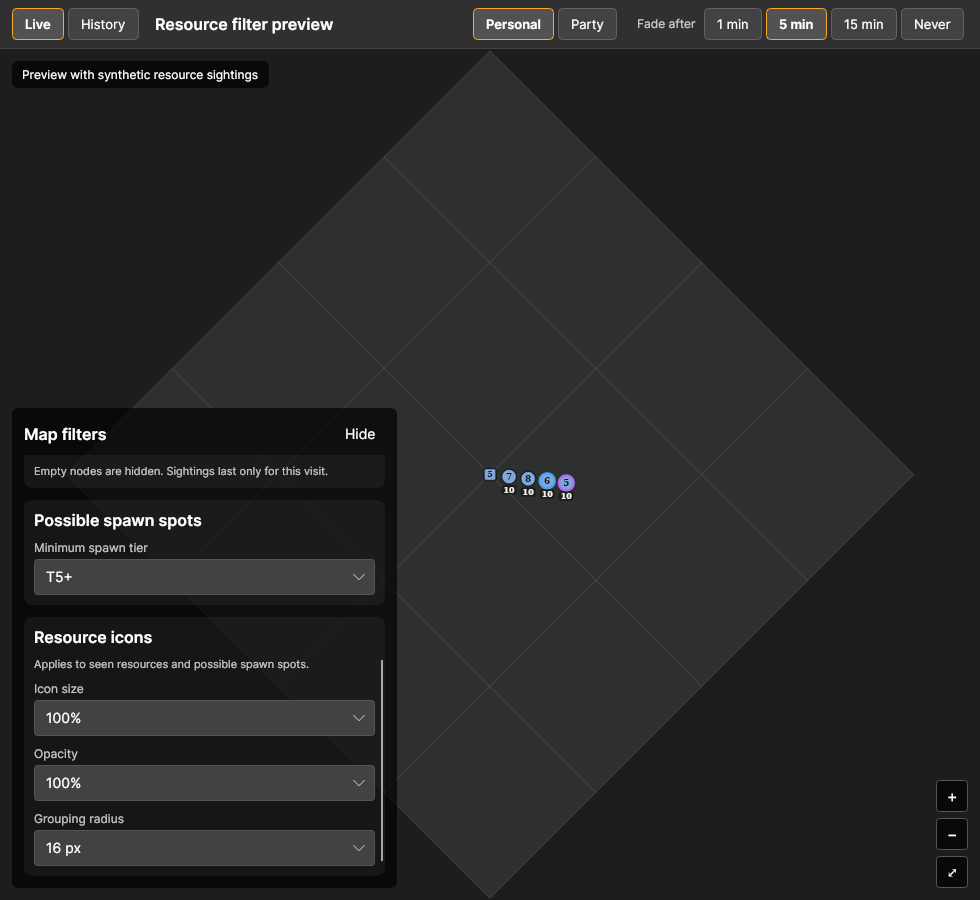
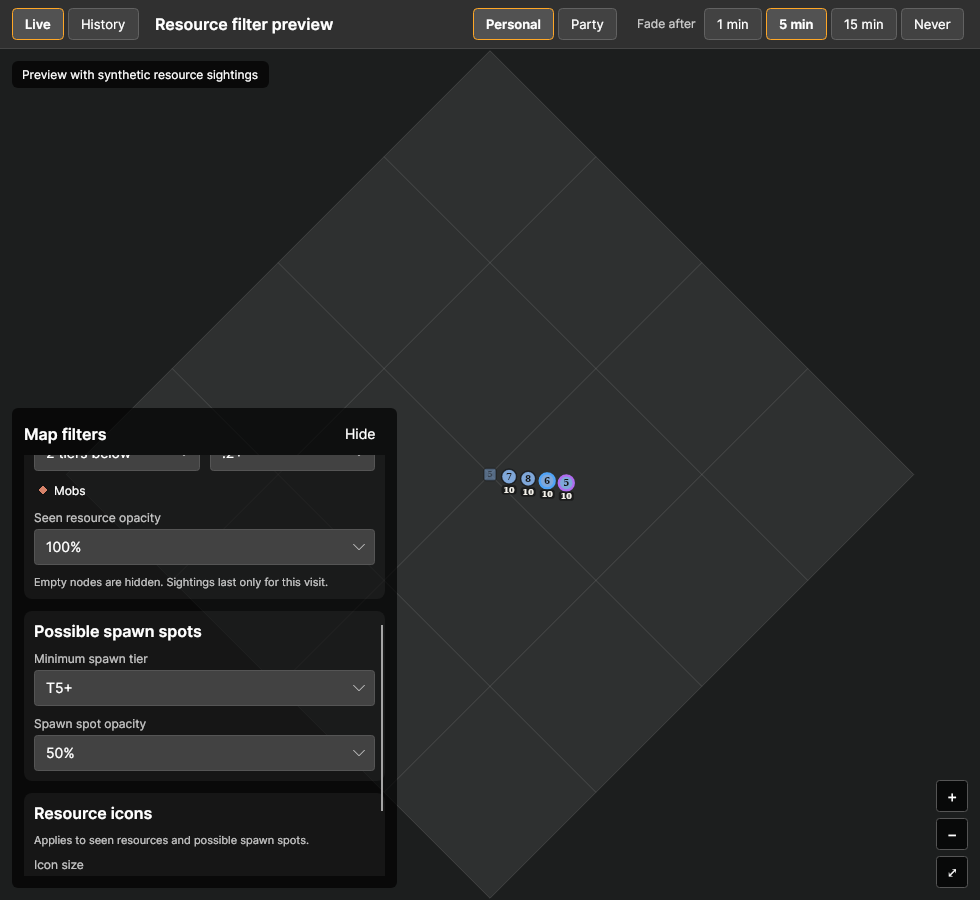
Separate spawn spot opacity from seen resources

Changed region(s): [[0.0306, 0.4978, 0.398, 0.9644]]

diff --git a/AlbionDataAvalonia/ViewModels/ActivityMapViewModel.cs b/AlbionDataAvalonia/ViewModels/ActivityMapViewModel.cs
@@ -83,6 +83,7 @@ public sealed partial class ActivityMapViewModel : ObservableObject, IDisposable
         selectedLowerTierEnchantment = UiOptions.Nearest(EnchantmentOptions, settings.MapResourceLowerTierMinEnchantment);
         selectedIconSize = UiOptions.Nearest(IconSizeOptions, settings.MapResourceIconSize);
         selectedIconOpacity = UiOptions.Nearest(IconOpacityOptions, settings.MapResourceIconOpacity);
+        selectedSpawnIconOpacity = UiOptions.Nearest(IconOpacityOptions, settings.MapResourceSpawnIconOpacity);
         selectedClusterRadius = UiOptions.Nearest(ClusterRadiusOptions, settings.MapResourceClusterRadius);
         liveTimer.Tick += (_, _) => RefreshLive();
         replayTimer.Tick += (_, _) => AdvanceReplay();
@@ -144,6 +145,7 @@ public sealed partial class ActivityMapViewModel : ObservableObject, IDisposable
     [ObservableProperty] private Option<int> selectedLowerTierEnchantment;
     [ObservableProperty] private Option<int> selectedIconSize;
     [ObservableProperty] private Option<int> selectedIconOpacity;
+    [ObservableProperty] private Option<int> selectedSpawnIconOpacity;
     [ObservableProperty] private Option<int> selectedClusterRadius;
     [ObservableProperty] private Option<int> selectedResourceTier;
     [ObservableProperty] private bool showResourceMobs;
@@ -349,6 +351,12 @@ public sealed partial class ActivityMapViewModel : ObservableObject, IDisposable
         Rebuild();
     }
 
+    partial void OnSelectedSpawnIconOpacityChanged(Option<int> value)
+    {
+        settings.MapResourceSpawnIconOpacity = value.Value;
+        Rebuild();
+    }
+
     partial void OnSelectedClusterRadiusChanged(Option<int> value)
     {
         settings.MapResourceClusterRadius = value.Value;
@@ -480,7 +488,8 @@ public sealed partial class ActivityMapViewModel : ObservableObject, IDisposable
             ShownResourceSpawns(Turned(zone?.ResourceSpawns ?? [], turns)), ShownPois(Turned(zone?.Pois ?? [], turns)),
             zone?.Zone?.Rooms, zone?.Zone?.Outline, ShowRoamingBosses ? (live.RoamingBosses ?? []).OrderBy(x => x.Kind == ActivityLiveActorKind.Boss).ThenBy(x => x.Tier).ToArray() : [],
             ShownHostiles(live.Hostiles, zone?.Zone), ResourceIconScale: SelectedIconSize.Value / 100d,
-            ResourceIconOpacity: SelectedIconOpacity.Value / 100d, ResourceClusterRadius: SelectedClusterRadius.Value);
+            ResourceIconOpacity: SelectedIconOpacity.Value / 100d, ResourceClusterRadius: SelectedClusterRadius.Value,
+            ResourceSpawnIconOpacity: SelectedSpawnIconOpacity.Value / 100d);
     }
 
     // No one can attack the character in a blue zone, so a player there is no threat.
@@ -639,7 +648,8 @@ public sealed partial class ActivityMapViewModel : ObservableObject, IDisposable
             markers, Turned(zone?.Exits ?? [], turns), Turned(zone?.Icons ?? [], turns), null, null, false, DateTime.UtcNow, 0, option.StartUtc, until,
             Layers, turns, ResourceSpawns: ShownResourceSpawns(Turned(zone?.ResourceSpawns ?? [], turns)),
             Pois: ShownPois(Turned(zone?.Pois ?? [], turns)), Rooms: zone?.Zone?.Rooms, Outline: zone?.Zone?.Outline, ResourceIconScale: SelectedIconSize.Value / 100d,
-            ResourceIconOpacity: SelectedIconOpacity.Value / 100d, ResourceClusterRadius: SelectedClusterRadius.Value);
+            ResourceIconOpacity: SelectedIconOpacity.Value / 100d, ResourceClusterRadius: SelectedClusterRadius.Value,
+            ResourceSpawnIconOpacity: SelectedSpawnIconOpacity.Value / 100d);
     }
 
     // Only a minimap found by its layout follows the instance's turn.

diff --git a/AlbionDataAvalonia/Settings/UserSettings.cs b/AlbionDataAvalonia/Settings/UserSettings.cs
@@ -507,6 +507,19 @@ public class UserSettings : INotifyPropertyChanged
         }
     }
 
+    private int mapResourceSpawnIconOpacity = 50;
+    public int MapResourceSpawnIconOpacity
+    {
+        get => mapResourceSpawnIconOpacity;
+        set
+        {
+            var clamped = Math.Clamp(value, 25, 100);
+            if (mapResourceSpawnIconOpacity == clamped) return;
+            mapResourceSpawnIconOpacity = clamped;
+            OnPropertyChanged(nameof(MapResourceSpawnIconOpacity));
+        }
+    }
+
     private int mapResourceClusterRadius = 16;
     public int MapResourceClusterRadius
     {

diff --git a/AlbionDataAvalonia/Views/ActivityMapCanvas.cs b/AlbionDataAvalonia/Views/ActivityMapCanvas.cs
@@ -523,7 +523,7 @@ public sealed class ActivityMapCanvas : Control
             var best = group.Spawns[0];
             var color = ActivityPalette.Resource(best.Family);
             using var transform = context.PushTransform(ResourceIconTransform(group.At, scene.ResourceIconScale));
-            using (context.PushOpacity(scene.ResourceIconOpacity))
+            using (context.PushOpacity(scene.ResourceSpawnIconOpacity))
             {
                 if (best.Mob)
                 {

diff --git a/AlbionDataAvalonia/ViewModels/ActivityMapScene.cs b/AlbionDataAvalonia/ViewModels/ActivityMapScene.cs
@@ -63,4 +63,5 @@ public sealed record ActivityMapScene(
     IReadOnlyList<ActivityHostileSighting>? Hostiles = null,
     double ResourceIconScale = 1,
     double ResourceIconOpacity = 1,
-    double ResourceClusterRadius = 16);
+    double ResourceClusterRadius = 16,
+    double ResourceSpawnIconOpacity = 0.5);

diff --git a/README.md b/README.md
@@ -204,7 +204,7 @@ Click **Open map** on the Activity page to open the map in its own window.
 
 - **Live** follows you through the zone and draws your path, kills, loot, gathering, deaths, zone exits and map icons. Choose whether they fade after 1, 5 or 15 minutes, or never.
 - **History** replays any past run. Pick it from the list and press play, or drag along the timeline.
-- **Seen resources** (Live only, off until you turn it on) marks non-empty gathering nodes the game has shown near you: wood, ore, fiber, hide and stone, with their tier, enchantment ring and remaining units. Nodes stay visible during the current visit until emptied or you change zone; they are not remembered between visits or restarts. Resource kinds can be toggled separately. **Mobs** includes nearby animals and resource critters as diamonds. Set **Minimum seen tier**, then optionally include a chosen number of **Lower tiers** with a **Minimum enchantment**. For example, T7+ with two lower tiers and .2+ also shows T5.2+ and T6.2+, while keeping every T7 and T8. **Minimum spawn tier** independently filters possible spawn spots. **Resource icons** controls size, opacity and grouping radius for both layers; grouping can be turned off. Choices are saved between restarts. The filter panel scrolls and can be collapsed to keep the map clear.
+- **Seen resources** (Live only, off until you turn it on) marks non-empty gathering nodes the game has shown near you: wood, ore, fiber, hide and stone, with their tier, enchantment ring and remaining units. Nodes stay visible during the current visit until emptied or you change zone; they are not remembered between visits or restarts. Resource kinds can be toggled separately. **Mobs** includes nearby animals and resource critters as diamonds. Set **Minimum seen tier**, then optionally include a chosen number of **Lower tiers** with a **Minimum enchantment**. For example, T7+ with two lower tiers and .2+ also shows T5.2+ and T6.2+, while keeping every T7 and T8. **Minimum spawn tier** independently filters possible spawn spots. **Seen resource opacity** and **Spawn spot opacity** are independent; spawn spots default to 50%. **Resource icons** controls size and grouping radius for both layers; grouping can be turned off. Choices are saved between restarts. The filter panel scrolls and can be collapsed to keep the map clear.
 - **Spawn spots** (off until you turn it on) marks every spot where the zone can grow resource nodes (squares) or resource mobs (hollow diamonds), with the tier inside, like the interactive maps on the web. They come from the game files through the map data the client already downloads, so they show in Live and History and need no packet reading. In the open world most spots are the many candidate places the game picks a zone's ordinary nodes from, plus the nodes that the zone's changing sections place. They say what can grow there, not what stands there now; the game picks the enchantment when a node spawns. Their **Minimum spawn tier** is independent of seen resources; resource-kind choices apply to both layers.
 - **Points of interest** (off until you turn it on) gathers the zone's points of interest from the game files in one layer, each kind with its own mark, larger for a better one: loot chests as small gold chests (open-world camp, faction and static chests, Corrupted Dungeon chests and a Hellgate's chest, larger for boss and veteran chests), boss spawn spots as red diamonds, shrines as violet triangles, the spots the game picks mob camps from as orange squares and Mists wisp spawns as small blue dots. In the Mists the map data has no chests, so the client brings the camp slots of each Mists layout: the game fills each slot with a camp, a resource patch, an exit or plain landscape when the instance opens, and a camp's chest stands inside the dashed ring. Knightfall Abbey, the Mists dungeon, has no minimap in the map data either, so the client draws its rooms on a grid from the game files, with its exits back to the Mists and the boss chest spots of its rooms. The Depths get the same treatment: each floor shows a rough outline of its ground from the game files, its demon camp rooms (with the chance of a boss the floor gives them), demon altars where its monsters spawn (red-orange discs), exits up (green) and down (blue), treasure chest (gold) and coffer (silver) spots, key spawns (gold rings) and resurrection shrines. Roads chests already show as the game's own icons. These are possible spots, not what stands there now.
 - **Roaming bosses** (Live only, off until you turn it on) shows, like the resource nodes, the roaming bosses and minibosses the game has told the client about near you, with their portrait and tier. They follow the game's movement packets and go when the game says they left or died. Other players aren't shown: the game encrypts their positions, so a client that only listens can't place them.
